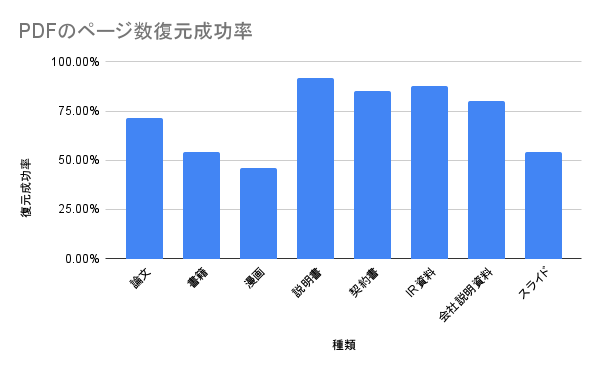
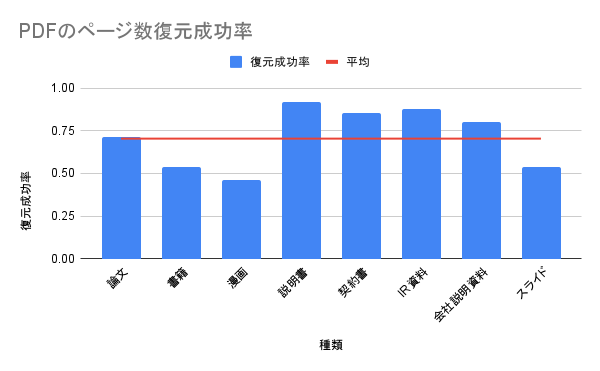
evaluation: 評価結果(PDF)を追加

diff --git a/src/062-4_evaluation_result_pdf.ja.tex b/src/062-4_evaluation_result_pdf.ja.tex
@@ -1,35 +1,34 @@
 \subsection{PDFの復元}
 本項では、PDFの閲覧状態の復元について、本評価実験で得られた評価結果を示す。
+表\ref{tb:evl-pdf-list}に示したPDFの種類別にページ数の復元の評価結果を示す。
 
+論文は5つのPDFで計46ページをテストし、約71\%にあたる33ページで復元に成功した。
 
+書籍は5つのPDFで計50ページをテストし、約54\%にあたる27ページで復元に成功した。
 
+漫画は5つのPDFで計50ページをテストし、約46\%にあたる23ページで復元に成功した。
 
-図\ref{fig:local-success-rate-pdf}にローカルPC上のPDFの復元の評価結果を示す。
-図\ref{fig:chrome-chrome-success-rate-pdf}にChrome拡張機能で保存したPDFをChrome上で復元した場合の実験結果を示す。
-図\ref{fig:chrome-ios-success-rate-pdf}にChrome拡張機能で保存したPDFをiOSアプリケーション上で復元した場合の実験結果を示す。
+説明書(マニュアル)は5つのPDFで計50ページをテストし、約92\%にあたる46ページで復元に成功した。
+
+契約書は5つのPDFで計23ページをテストし、約85\%にあたる20ページで復元に成功した。
+
+IR資料は5つのPDFで計50ページをテストし、約88\%にあたる44ページで復元に成功した。
+
+会社説明資料は5つのPDFで計50ページをテストし、約80\%にあたる40ページで復元に成功した。
+
+スライドは5つのPDFで計50ページをテストし、約54\%にあたる27ページで復元に成功した。
+
+上記を平均すると、約70\%の確率でPDFのページ数を復元することが出来た。
+
+上記に示した、種類別の復元成功率を図\ref{fig:success-rate-pdf}に示す。
+
 
 % textlint-disable
 \begin{figure}[htbp]
-  \caption{ローカルPC上のPDFの復元の成功率}
-  \label{fig:local-success-rate-pdf}
+  \caption{種類別PDFのページ数の復元の成功率}
+  \label{fig:success-rate-pdf}
   \begin{center}
-    \includegraphics[bb=0 0 600 371,width=15cm]{img/060_evaluation/success-rate-pdf.pdf}
-  \end{center}
-\end{figure}
-
-\begin{figure}[htbp]
-  \caption{Chrome拡張機能で保存→Chromeでの復元(Web上のPDF)の成功率}
-  \label{fig:chrome-chrome-success-rate-pdf}
-  \begin{center}
-    \includegraphics[bb=0 0 600 371,width=15cm]{img/060_evaluation/success-rate-pdf.pdf}
-  \end{center}
-\end{figure}
-
-\begin{figure}[htbp]
-  \caption{Chrome拡張機能で保存→iOSでの復元(Web上のPDF)の成功率}
-  \label{fig:chrome-ios-local-success-rate-pdf}
-  \begin{center}
-    \includegraphics[bb=0 0 600 371,width=15cm]{img/060_evaluation/success-rate-pdf.pdf}
+    \includegraphics[bb=0 0 600 371,width=15cm]{img/060_evaluation/result/pdf/success-rate-pdf.pdf}
   \end{center}
 \end{figure}
 % textlint-enable
